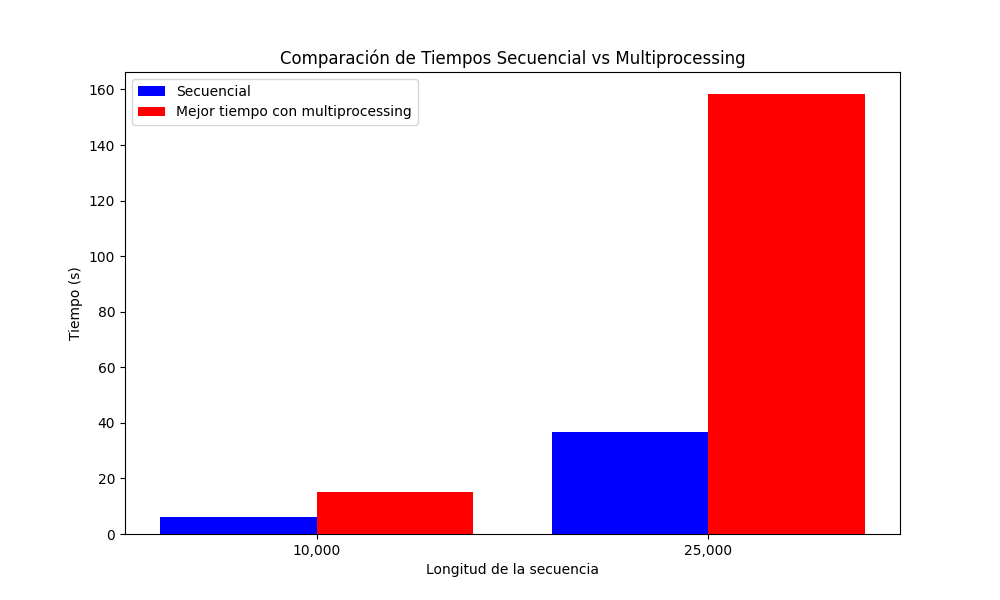
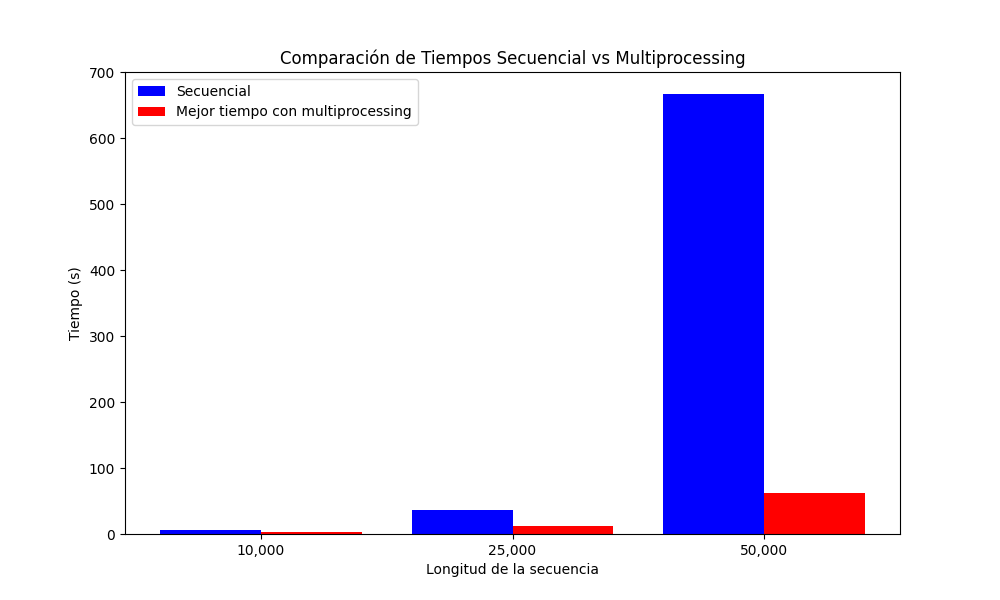
multiprocessing metrics

diff --git a/assets/grafico_barras_multiprocessing.py b/assets/grafico_barras_multiprocessing.py
@@ -5,9 +5,9 @@ import numpy as np
 processes = [2, 4, 8, 16]
 
 # Tiempos de ejecución para 10,000 caracteres con distintos números de procesos
-times_total = [28.87, 19.68, 15.78, 16.34]
-times_calculation = [27.96, 18.90, 14.99, 15.56]
-times_image = [0.87, 0.74, 0.79, 0.75]
+times_total = [5.9, 3.9, 3.19, 3.71]
+times_calculation = [5.22, 3.15, 2.56, 3.06]
+times_image = [0.61, 0.69, 0.57, 0.59]
 
 
 x = np.arange(len(processes))  # las etiquetas de los ejes x para los procesos
@@ -36,9 +36,9 @@ plt.close()
 processes = [2, 4, 8, 16]
 
 # Tiempos de ejecución con 25,000 caracteres
-times_total_25000 = [284.05, 176.98, 158.36, 172.88]
-times_calculation_25000 = [284.00, 172.03, 151.95, 166.67]
-times_image_25000 = [0.05, 4.88, 6.41, 6.21]
+times_total_25000 = [32.59, 18.63, 12.88, 11.89]
+times_calculation_25000 = [29.20, 15.95, 10.27, 9.25]
+times_image_25000 = [3.33, 2.62, 2.55, 2.58]
 
 x = np.arange(len(processes))  # las etiquetas de los ejes x para los procesos
 width = 0.25  # ancho de las barras
@@ -62,16 +62,48 @@ fig.tight_layout()
 plt.savefig('./assets/imgs/tiempo_ejecucion_multiprocessing_25000.png')
 plt.close()
 
+# Datos para gráficas de Multiprocessing para 50,000 caracteres
+processes = [2, 4, 8, 16]
+
+# Tiempos de ejecución con 50,000 caracteres
+times_total_50000 = [159.79, 105.11, 62.06, 72.16]
+times_calculation_50000 = [116.75, 62.35, 38.94, 33.86]
+times_image_50000 = [42.98, 42.67, 23.05, 38.23]
+
+x = np.arange(len(processes))  # las etiquetas de los ejes x para los procesos
+width = 0.25  # ancho de las barras
+
+fig, ax = plt.subplots()
+rects1 = ax.bar(x - width, times_total_50000, width, label='Tiempo Total')
+rects2 = ax.bar(x, times_calculation_50000, width, label='Tiempo de Cálculo')
+rects3 = ax.bar(x + width, times_image_50000, width, label='Tiempo de Guardar Imagen')
+
+# Añadir algunas etiquetas de texto para títulos y etiquetas de ejes
+ax.set_xlabel('Número de Procesos')
+ax.set_ylabel('Tiempo (s)')
+ax.set_title('Tiempos de Ejecución para Multiprocessing con 50,000 Caracteres')
+ax.set_xticks(x)
+ax.set_xticklabels([f'{p} procesos' for p in processes])
+ax.legend()
+
+fig.tight_layout()
+
+# Guardar gráfico
+plt.savefig('./assets/imgs/tiempo_ejecucion_multiprocessing_50000.png')
+plt.close()
+
+
 
 # Datos de tiempo total secuencial obtenidos anteriormente
-sizes = ['10,000', '25,000']
-sequential_times = [5.96, 36.84]  # Tiempos secuenciales obtenidos para 10,000 y 25,000 caracteres
+sizes = ['10,000', '25,000', '50,000']
+sequential_times = [5.96, 36.84, 666.69]  # Tiempos secuenciales obtenidos para 10,000 y 25,000 caracteres
 
 # Mejores tiempos usando multiprocessing
-best_multiprocessing_times_10000 = min([27.67, 18.90, 14.98, 15.79])
-best_multiprocessing_times_25000 = min([284.98, 176.98, 158.36, 172.88])
+best_multiprocessing_times_10000 = min([5.9, 3.9, 3.19, 3.71])
+best_multiprocessing_times_25000 = min([32.59, 18.63, 12.88, 11.89])
+best_multiprocessing_times_50000 = min([159.79, 105.11, 62.06, 72.16])
 
-best_multiprocessing_times = [best_multiprocessing_times_10000, best_multiprocessing_times_25000]
+best_multiprocessing_times = [best_multiprocessing_times_10000, best_multiprocessing_times_25000, best_multiprocessing_times_50000]
 
 x = np.arange(len(sizes))
 

diff --git a/assets/grafico_escalabilidad.py b/assets/grafico_escalabilidad.py
@@ -2,7 +2,7 @@ import matplotlib.pyplot as plt
 
 # Datos de ejemplo
 # Tiempos de ejecución para diferentes números de procesadores (strong scalability)
-times_strong = [36.84, 30.32, 16.48, 11.01, 81.53]  # tiempos medidos en segundos
+times_strong = [5.96, 5.9, 3.9, 3.19, 3.71]  # tiempos medidos en segundos
 processors_strong = [1, 2, 4, 8, 16]  # número de procesadores correspondientes
 
 # Tiempos de ejecución para diferentes tamaños de problema y números de procesadores (weak scalability)
@@ -47,4 +47,4 @@ plt.title('Weak Scalability')
 plt.grid(True)
 
 plt.tight_layout()
-plt.show()
+plt.savefig('assets/imgs/escalabilidad')

diff --git a/assets/grafico_barras_hilos.py b/assets/grafico_barras_hilos.py
@@ -56,7 +56,7 @@ import matplotlib.pyplot as plt
 import numpy as np
 
 sizes = ['10,000', '25,000', '50,000']
-sequential_times = [5.96, 36.84, 39.01]  # Tiempos secuenciales 
+sequential_times = [5.96, 36.84, 666.69]  # Tiempos secuenciales 
 best_thread_times = [1.16, 4.01, 33.70]  # Mejores tiempos multihilo
 
 x = np.arange(len(sizes))
